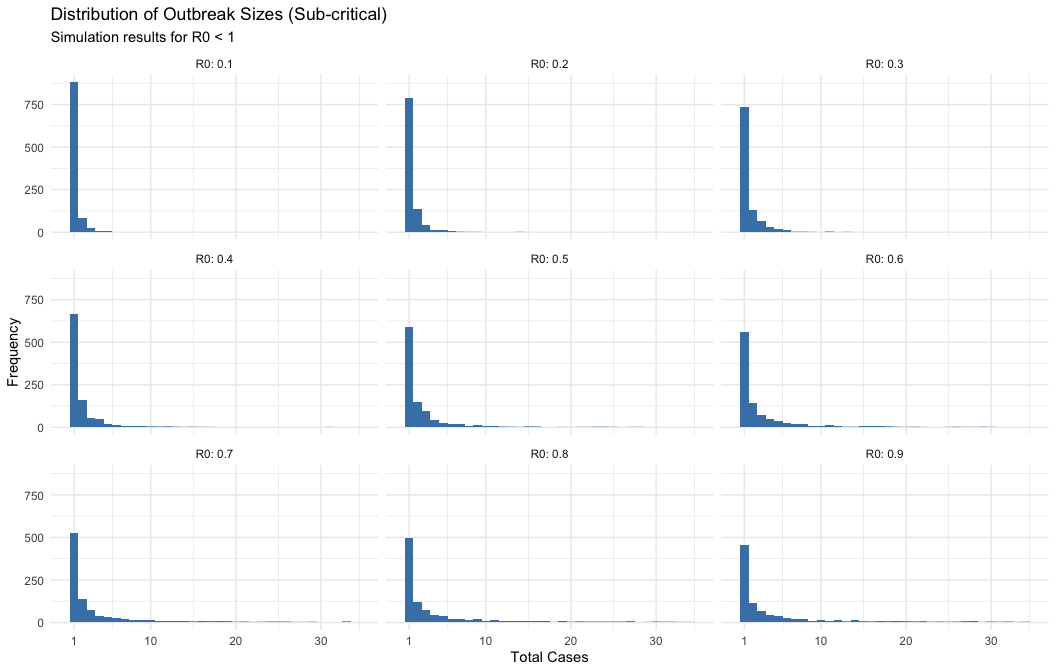
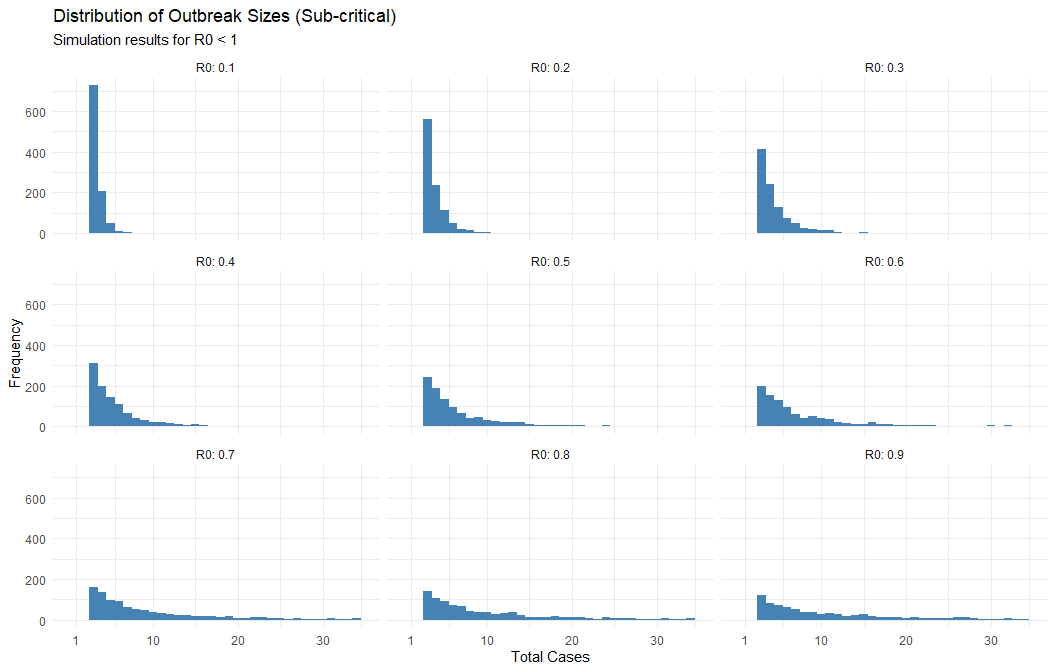
change initial cases to 3

diff --git a/vignettes/experiments/tabletop/davis_agemodel.md b/vignettes/experiments/tabletop/davis_agemodel.md
@@ -2,7 +2,9 @@
     library(socialmixr)
 
     library(data.table)
+    #> data.table 1.17.0 using 4 threads (see ?getDTthreads).  Latest news: r-datatable.com
     library(ggplot2)
+    #> Learn more about the underlying theory at https://ggplot2-book.org/
 
 This vignette demonstrates an age-structured model of transmission
 within Davis County, Utah.
@@ -42,7 +44,7 @@ Initial population size of each disease state:
 
     initI <- rep(0, length(popsize))  # initial infectious cases
     initI[4] <- 1                     # assume 1 initial case in the 4th age group (12-13)
-
+    initI[3] <- 2                     # ... and 2 initial cases in the 3rd age group (5-11)
     initR <- rep(0, length(popsize))  # no recent prior H5 flu survivors
 
 Transmission matrix ingredients: contact matrix, relative susceptibility
@@ -81,10 +83,8 @@ many of those simulations resulted in each number of total infections
            y = "Frequency",
            x = "Total Cases") +
       theme_minimal()
-    #> Warning: Removed 151 rows containing non-finite outside the scale range
-    #> (`stat_count()`).
-    #> Warning: Removed 2 rows containing missing values or values outside the scale
-    #> range (`geom_bar()`).
+    #> Warning: Removed 390 rows containing non-finite outside the scale range (`stat_count()`).
+    #> Warning: Removed 4 rows containing missing values or values outside the scale range (`geom_bar()`).
 
 ![](davis_agemodel_files/figure-markdown_strict/unnamed-chunk-7-1.png)
 
@@ -117,27 +117,27 @@ outbreak sizes:
 <tr>
 <td style="text-align: right;">1</td>
 <td style="text-align: right;">1.00</td>
-<td style="text-align: right;">0.59</td>
+<td style="text-align: right;">0.00</td>
 </tr>
 <tr>
 <td style="text-align: right;">5</td>
-<td style="text-align: right;">0.12</td>
-<td style="text-align: right;">0.90</td>
+<td style="text-align: right;">0.57</td>
+<td style="text-align: right;">0.56</td>
 </tr>
 <tr>
 <td style="text-align: right;">10</td>
-<td style="text-align: right;">0.04</td>
-<td style="text-align: right;">0.97</td>
+<td style="text-align: right;">0.19</td>
+<td style="text-align: right;">0.84</td>
 </tr>
 <tr>
 <td style="text-align: right;">15</td>
-<td style="text-align: right;">0.02</td>
-<td style="text-align: right;">0.99</td>
+<td style="text-align: right;">0.07</td>
+<td style="text-align: right;">0.94</td>
 </tr>
 <tr>
 <td style="text-align: right;">20</td>
-<td style="text-align: right;">0.01</td>
-<td style="text-align: right;">0.99</td>
+<td style="text-align: right;">0.03</td>
+<td style="text-align: right;">0.97</td>
 </tr>
 <tr>
 <td style="text-align: right;">30</td>
@@ -213,43 +213,43 @@ sizes:
 <tbody>
 <tr>
 <td style="text-align: right;">10</td>
-<td style="text-align: right;">0.48</td>
-<td style="text-align: right;">0.52</td>
+<td style="text-align: right;">0.81</td>
+<td style="text-align: right;">0.20</td>
 </tr>
 <tr>
 <td style="text-align: right;">20</td>
-<td style="text-align: right;">0.46</td>
-<td style="text-align: right;">0.55</td>
+<td style="text-align: right;">0.77</td>
+<td style="text-align: right;">0.23</td>
 </tr>
 <tr>
 <td style="text-align: right;">50</td>
-<td style="text-align: right;">0.43</td>
-<td style="text-align: right;">0.57</td>
+<td style="text-align: right;">0.74</td>
+<td style="text-align: right;">0.26</td>
 </tr>
 <tr>
 <td style="text-align: right;">100</td>
-<td style="text-align: right;">0.43</td>
-<td style="text-align: right;">0.57</td>
+<td style="text-align: right;">0.73</td>
+<td style="text-align: right;">0.27</td>
 </tr>
 <tr>
 <td style="text-align: right;">200</td>
-<td style="text-align: right;">0.43</td>
-<td style="text-align: right;">0.57</td>
+<td style="text-align: right;">0.73</td>
+<td style="text-align: right;">0.27</td>
 </tr>
 <tr>
 <td style="text-align: right;">500</td>
-<td style="text-align: right;">0.43</td>
-<td style="text-align: right;">0.57</td>
+<td style="text-align: right;">0.73</td>
+<td style="text-align: right;">0.27</td>
 </tr>
 <tr>
 <td style="text-align: right;">1000</td>
-<td style="text-align: right;">0.43</td>
-<td style="text-align: right;">0.57</td>
+<td style="text-align: right;">0.73</td>
+<td style="text-align: right;">0.27</td>
 </tr>
 <tr>
 <td style="text-align: right;">2000</td>
-<td style="text-align: right;">0.43</td>
-<td style="text-align: right;">0.57</td>
+<td style="text-align: right;">0.73</td>
+<td style="text-align: right;">0.27</td>
 </tr>
 </tbody>
 </table>
